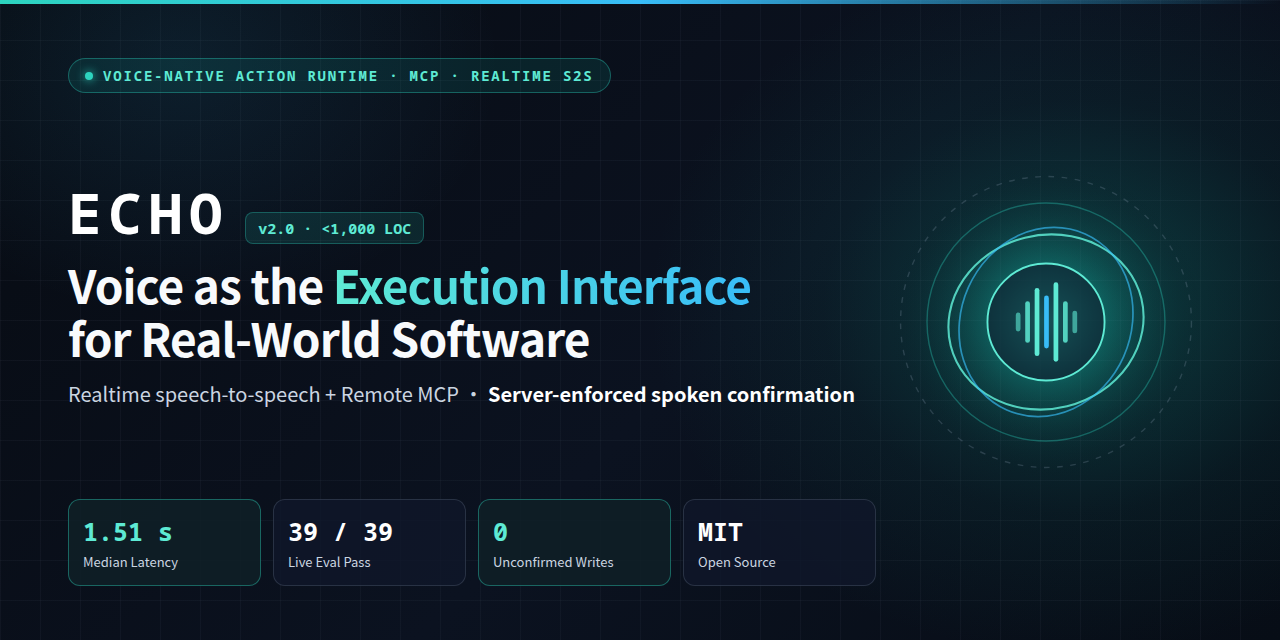
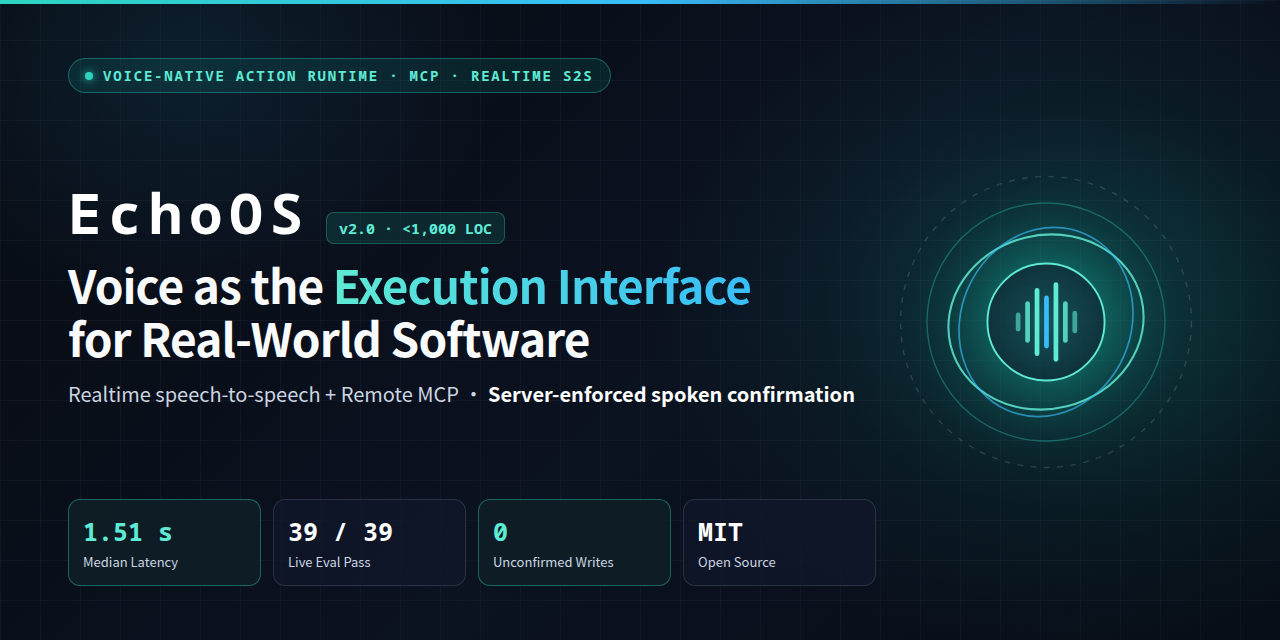
docs: rebrand to EchoOS and embed inline audio demo video

Changed region(s): [[0.0625, 0.2812, 0.4062, 0.375]]

diff --git a/docs/media/echo-hero.html b/docs/media/echo-hero.html
@@ -221,8 +221,8 @@
 
       <div class="title-block">
         <div class="brand-row">
-          <div class="brand">ECHO</div>
-          <div class="brand-tag">v2.0 · OPEN RUNTIME</div>
+          <div class="brand">EchoOS</div>
+          <div class="brand-tag">v2.0 · MIT OPEN SOURCE</div>
         </div>
         <div class="headline">让声音成为真实软件的<span class="accent">执行界面</span></div>
         <div class="subhead">后 App 时代的语音原生执行系统<span class="sep">·</span><strong>概率交给大模型，边界交给确定性代码</strong></div>

diff --git a/docs/media/echo-social-preview.html b/docs/media/echo-social-preview.html
@@ -161,7 +161,7 @@
       <div class="eyebrow"><span class="dot"></span>VOICE-NATIVE ACTION RUNTIME · MCP · REALTIME S2S</div>
       <div>
         <div class="brand-row">
-          <div class="brand">ECHO</div>
+          <div class="brand">EchoOS</div>
           <div class="tag">v2.0 · &lt;1,000 LOC</div>
         </div>
         <div class="headline">Voice as the <span class="accent">Execution Interface</span><br>for Real-World Software</div>

diff --git a/docs/media/echo-hero-en.html b/docs/media/echo-hero-en.html
@@ -198,7 +198,7 @@
 
       <div class="title-block">
         <div class="brand-row">
-          <div class="brand">ECHO</div>
+          <div class="brand">EchoOS</div>
           <div class="brand-tag">v2.0 · MIT OPEN SOURCE</div>
         </div>
         <div class="headline">Voice as the <span class="accent">Execution Interface</span><br>for Real-World Software</div>

diff --git a/README.md b/README.md
@@ -4,7 +4,7 @@
   <b>English</b> &nbsp;|&nbsp; <a href="README.zh-CN.md">简体中文</a>
 </p>
 
-<img src="docs/media/echo-hero-en.png" alt="Echo: Voice as the Execution Interface for Real-World Software" width="100%" />
+<img src="docs/media/echo-hero-en.png" alt="EchoOS: Voice as the Execution Interface for Real-World Software" width="100%" />
 
 <br />
 
@@ -18,7 +18,7 @@
 <h3>For 40 years we operated software by clicking through apps. Voice AI learned to chat, yet nobody trusts it with write access.</h3>
 
 <p>
-  <a href="docs/media/echo-demo.mp4?raw=true"><b>▶ 72s Demo Video (with audio)</b></a>
+  <a href="#demo"><b>▶ 72s Live Demo (Audio)</b></a>
   &nbsp;·&nbsp;
   <a href="#paradigm"><b>Paradigm</b></a>
   &nbsp;·&nbsp;
@@ -29,14 +29,14 @@
   <a href="docs/engineering-notes.md"><b>Engineering Notes</b></a>
 </p>
 
-<br />
+</div>
 
-<a href="docs/media/echo-demo.mp4?raw=true">
-  <img src="docs/media/echo-demo.gif" alt="Echo live recording: instant reads, server-locked spoken confirmation, sub-second barge-in" width="100%" />
-</a>
+<a id="demo"></a>
 
-<sub>Unedited recording on real Chrome + <code>qwen3.8-omni-flash-realtime</code> (2x silent preview) · <a href="docs/media/echo-demo.mp4?raw=true"><b>Download 72s full video with audio (3.9 MB)</b></a></sub>
+https://github.com/user-attachments/assets/94b0e690-7623-4e80-a879-0a2d85c9ea1e
 
+<div align="center">
+<sub>Unedited 72s recording with sound on real Chrome + <code>qwen3.8-omni-flash-realtime</code>: instant read tool, server-locked spoken confirmation, and ~1s barge-in interruption. Reproducible via <code>./demo/record.sh</code>.</sub>
 </div>
 
 <br />
@@ -68,7 +68,7 @@ Originated in April 2025 (<a href="../../tree/v1.0-2025"><code>v1.0-2025</code><
 | **Apps / GUIs** | Open app, tap menus, fill forms | Manual clicks | Modal confirmation buttons | Separate frontend per service |
 | **Chained Voice (STT → LLM → TTS)** | Serial multi-hop LLM calls | Multi-second lag, awkward barge-in | Prompt-only guardrails | Glue code or hosted subprocesses |
 | **Browser-Direct Realtime Model** | Realtime speech-to-speech | Sub-2s response | Keys & execution tied to model; hallucination = action | Locked to one model API |
-| **Echo (Voice-Native Runtime)** | **Speak to act, interrupt naturally** | **1.51 s median TTFA, ~1 s stop** | **Server-locked args + turn gate; no self-confirmation** | **5 lines of `tools.yaml` per remote MCP** |
+| **EchoOS (Voice-Native Runtime)** | **Speak to act, interrupt naturally** | **1.51 s median TTFA, ~1 s stop** | **Server-locked args + turn gate; no self-confirmation** | **5 lines of `tools.yaml` per remote MCP** |
 
 ![Figure 1: System Architecture, Confirmation Gate Sequence, and Measured Latency](docs/media/echo-figure.png)
 
@@ -95,7 +95,7 @@ mcp_servers:
     summaries: {create_event: "Create event {title} at {start}. Confirm?"}
 ```
 
-Every tool must be explicitly listed in `allow`. Missing env vars, unknown tools, or unreachable servers fail closed for that server only without breaking others. Echo never hosts third-party local subprocesses and opens a clean stateless HTTP call per execution (`echo_agent/mcp_remote.py`).
+Every tool must be explicitly listed in `allow`. Missing env vars, unknown tools, or unreachable servers fail closed for that server only without breaking others. EchoOS never hosts third-party local subprocesses and opens a clean stateless HTTP call per execution (`echo_agent/mcp_remote.py`).
 
 ---
 
@@ -115,10 +115,10 @@ For public deployment, set `ECHO_ACCESS_TOKEN` and serve over HTTPS (required by
 
 ## Live Benchmarks & Production Voice Lessons
 
-Tested on `2026-11-24` against `qwen3.8-omni-flash-realtime` (13 cases × 3 runs, text input): **39/39** task completion, **34/39** first-step exact tool choice, **1.51 s** median first-audio latency (`0.82 s` direct reply, `0.99–1.66 s` local tools, `3.35 s` p90). Three real-world voice lessons baked into Echo:
+Tested on `2026-11-24` against `qwen3.8-omni-flash-realtime` (13 cases × 3 runs, text input): **39/39** task completion, **34/39** first-step exact tool choice, **1.51 s** median first-audio latency (`0.82 s` direct reply, `0.99–1.66 s` local tools, `3.35 s` p90). Three real-world voice lessons baked into EchoOS:
 
 1. **Semantic VAD swallows short confirmations.** Default `semantic_vad` filters short replies like "yes" / "好的" as backchannels, stalling voice confirmations. Switching Qwen 3.8 series to `semantic_vad_ec` fixes it.
-2. **In-flight stale audio leaks after barge-in.** Flushing the browser buffer isn't enough because old frames are still on the wire. Echo drops server-side audio after `speech_started` until the next `response_created`.
+2. **In-flight stale audio leaks after barge-in.** Flushing the browser buffer isn't enough because old frames are still on the wire. EchoOS drops server-side audio after `speech_started` until the next `response_created`.
 3. **Ground relative dates in tool outputs.** Returning a 7-day forecast with explicit weekdays eliminates weekend-date hallucinations.
 
 Full per-case eval metrics, real-voice confirmation logs, and recording reproducibility details are in [`docs/engineering-notes.md`](docs/engineering-notes.md).
@@ -134,7 +134,7 @@ Full per-case eval metrics, real-voice confirmation logs, and recording reproduc
 <details>
 <summary><b>Evolution (2025 v1 → 2026 v2): Why Rewriting Shrank the Core to &lt;1,000 Lines</b></summary>
 
-Echo began in April 2025 (full prototype and commit history preserved at tag [`v1.0-2025`](../../tree/v1.0-2025)). In v1, achieving one-sentence tool execution required up to 4 serial LLM hops per turn and 3,000+ lines of MCP subprocess management. In late 2026, native realtime speech-to-speech models and Streamable HTTP MCP allowed collapsing the entire paradigm into ~1,000 lines of Python.
+EchoOS began in April 2025 (full prototype and commit history preserved at tag [`v1.0-2025`](../../tree/v1.0-2025)). In v1, achieving one-sentence tool execution required up to 4 serial LLM hops per turn and 3,000+ lines of MCP subprocess management. In late 2026, native realtime speech-to-speech models and Streamable HTTP MCP allowed collapsing the entire paradigm into ~1,000 lines of Python.
 
 | 2025 v1 | 2026 v2 |
 |---|---|

diff --git a/README.zh-CN.md b/README.zh-CN.md
@@ -4,7 +4,7 @@
   <a href="README.md">English</a> &nbsp;|&nbsp; <b>简体中文</b>
 </p>
 
-<img src="docs/media/echo-hero.png" alt="Echo：让声音成为真实软件的执行界面" width="100%" />
+<img src="docs/media/echo-hero.png" alt="EchoOS：让声音成为真实软件的执行界面" width="100%" />
 
 <br />
 
@@ -18,7 +18,7 @@
 <h3>四十年来人靠 App 点击用软件；语音 AI 会聊天了，却没人敢给它写权限。</h3>
 
 <p>
-  <a href="docs/media/echo-demo.mp4?raw=true"><b>▶ 72 秒带声音实录</b></a>
+  <a href="#demo"><b>▶ 72 秒带声音实录</b></a>
   &nbsp;·&nbsp;
   <a href="#paradigm"><b>核心范式</b></a>
   &nbsp;·&nbsp;
@@ -29,14 +29,14 @@
   <a href="docs/engineering-notes.md"><b>工程笔记</b></a>
 </p>
 
-<br />
+</div>
 
-<a href="docs/media/echo-demo.mp4?raw=true">
-  <img src="docs/media/echo-demo.gif" alt="Echo 实录：查询直出、写操作口头确认、随时打断" width="100%" />
-</a>
+<a id="demo"></a>
 
-<sub>真 Chrome + <code>qwen3.8-omni-flash-realtime</code> 一镜到底实录（2 倍速无声预览） · <a href="docs/media/echo-demo.mp4?raw=true"><b>点击下载 72 秒完整带声音视频（3.9 MB）</b></a></sub>
+https://github.com/user-attachments/assets/94b0e690-7623-4e80-a879-0a2d85c9ea1e
 
+<div align="center">
+<sub>真 Chrome + <code>qwen3.8-omni-flash-realtime</code> 72 秒带声音一镜到底实录（查询直出、写操作服务端锁参口头确认、约 1 秒自然打断），可用 <code>./demo/record.sh</code> 一条命令重录。</sub>
 </div>
 
 <br />
@@ -68,7 +68,7 @@
 | **App / 图形界面** | 找入口、点菜单、填表单 | 人逐步点击 | 弹窗按钮确认 | 每个服务各做一套前端 |
 | **串联语音（识别 → LLM → 合成）** | 语音输入，多次串行模型调用 | 延迟逐级叠加，难以打断 | 靠提示词约束 | 胶水代码或本地托管进程 |
 | **前端直连实时语音模型** | 实时语音 | 秒级响应 | 工具执行跟着模型走，听错或幻觉就可能误操作 | 和单一模型接口绑定 |
-| **Echo** | **开口即执行，随时打断** | **首字中位 1.51 s，约 1 s 停播** | **服务端锁参 + 发言轮次校验，模型无法自问自答** | **在 `tools.yaml` 写几行接入远程 MCP** |
+| **EchoOS** | **开口即执行，随时打断** | **首字中位 1.51 s，约 1 s 停播** | **服务端锁参 + 发言轮次校验，模型无法自问自答** | **在 `tools.yaml` 写几行接入远程 MCP** |
 
 ![图 1：(a) 系统结构 (b) 确认闸时序 (c) 实测首字延迟和任务完成率](docs/media/echo-figure.png)
 
@@ -134,7 +134,7 @@ uv run echo-server            # 打开 http://127.0.0.1:8000
 <details>
 <summary><b>从 2025 v1 到 2026 v2：为什么重写反而缩到不到 1,000 行</b></summary>
 
-Echo 在 2025 年 4 月启动 v1，完整代码和提交历史保留在 tag [`v1.0-2025`](../../tree/v1.0-2025)。2026 年重写时，实时语音模型已能在一次会话里同时听、调用函数、说话，远程 MCP 也有了官方 SDK 和现成服务，v2 据此做减法。
+EchoOS 在 2025 年 4 月启动 v1，完整代码和提交历史保留在 tag [`v1.0-2025`](../../tree/v1.0-2025)。2026 年重写时，实时语音模型已能在一次会话里同时听、调用函数、说话，远程 MCP 也有了官方 SDK 和现成服务，v2 据此做减法。
 
 | 2025 v1 | 2026 v2 |
 |---|---|
